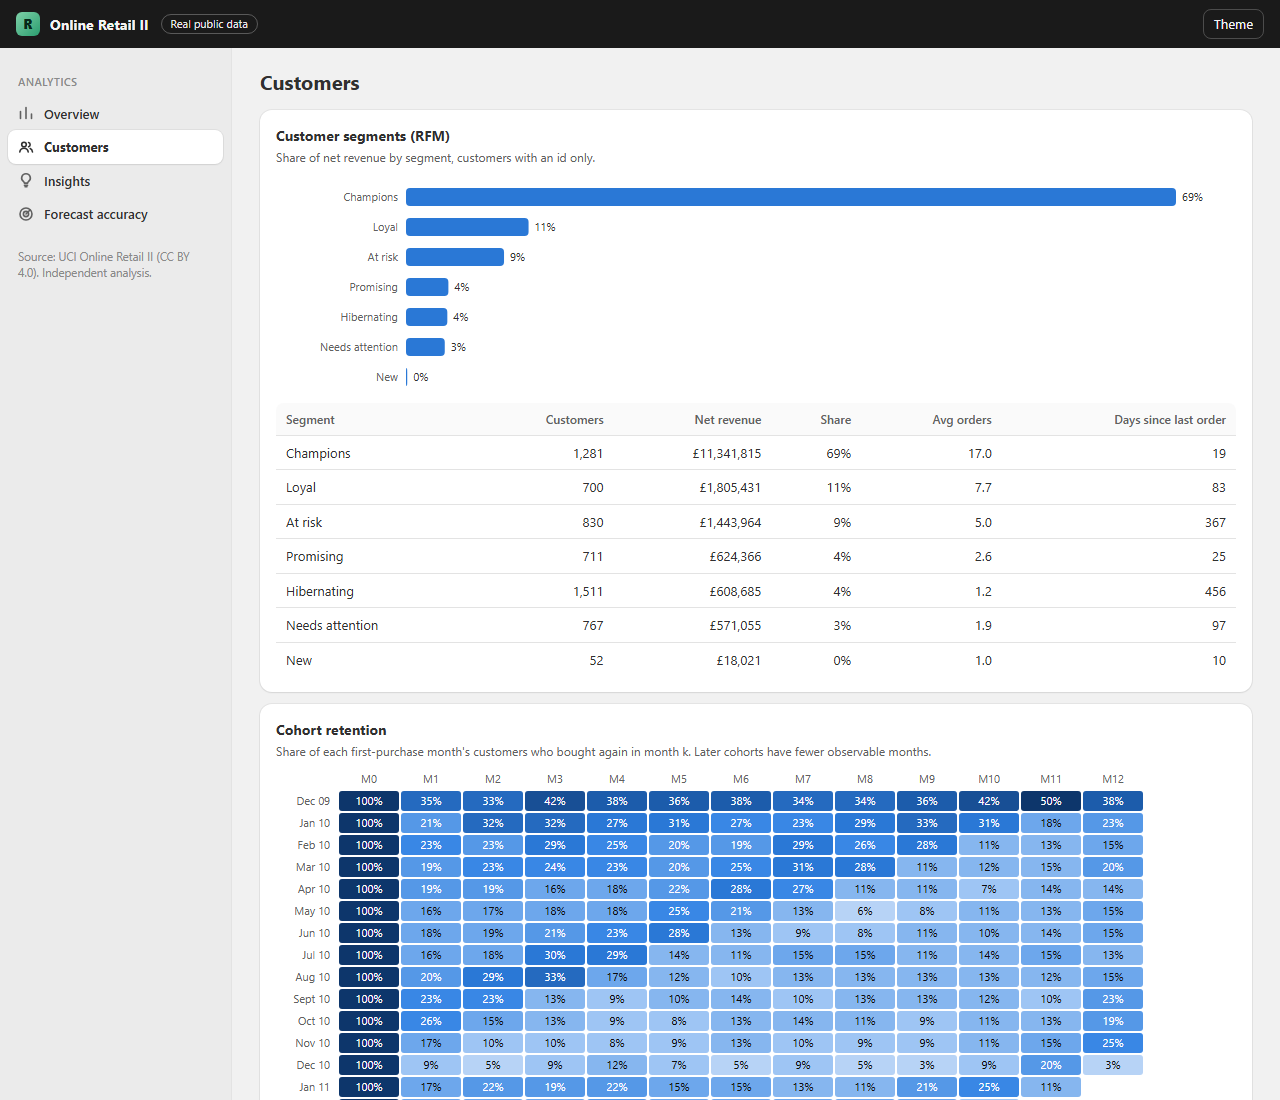
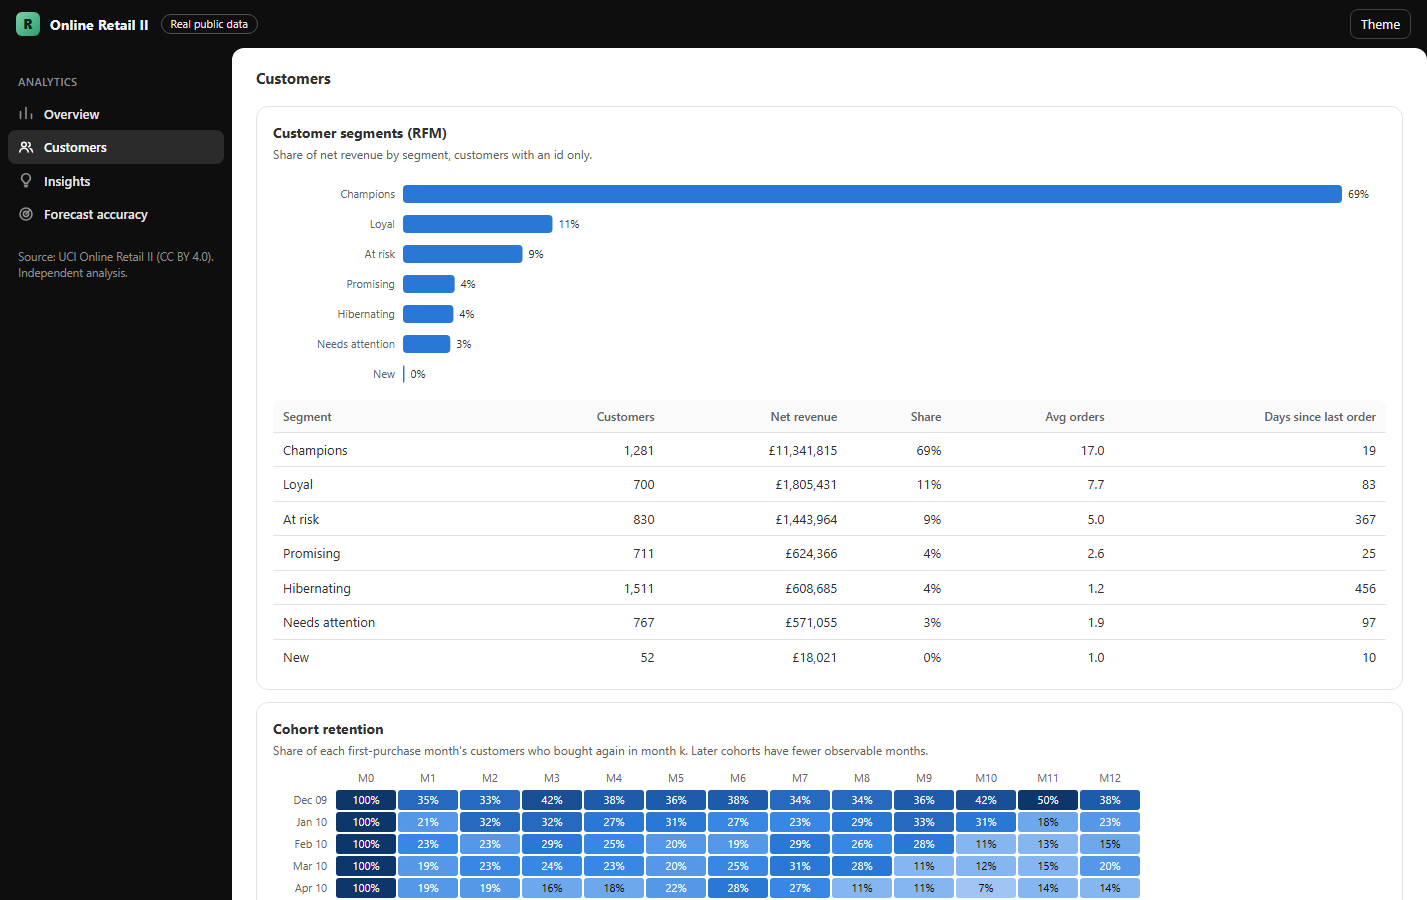
Report: match the admin frame look; refresh screenshots

diff --git a/report/index.html b/report/index.html
@@ -173,14 +173,47 @@ details{margin-top:8px}summary{cursor:pointer;font-size:12px;color:var(--ink2)}
 .insight .m{color:var(--ink2);font-size:12.5px}.insight .m b{color:var(--ink)}
 footer.foot-note{margin-top:22px;font-size:12px;color:var(--ink2)}
 
+/* ---- Admin frame (matches the real admin look): dark frame and sidebar, white rounded content panel, separate metric cards ---- */
+:root, :root[data-theme="light"]{--frame:#0e0e0e;--panel:#ffffff;--side-ink:#e6e6e6;--side-muted:#8f8f8f;--side-active:#2b2b2b;--side-hover:#1c1c1c;--chip:#f1f1f1;--card-line:#e3e3e3}
+@media (prefers-color-scheme: dark){:root:where(:not([data-theme="light"])){--frame:#000000;--panel:#151515;--chip:#262626;--card-line:#2e2e2e}}
+:root[data-theme="dark"]{--frame:#000000;--panel:#151515;--chip:#262626;--card-line:#2e2e2e}
+body{background:var(--frame)}
+.topbar{background:var(--frame)}
+.side{background:var(--frame);border-right:none;color:var(--side-ink)}
+.side h6{color:var(--side-muted)}
+.nav{color:var(--side-ink);border-radius:8px}
+.nav svg{color:var(--side-muted)}
+.nav:hover{background:var(--side-hover)}
+.nav[aria-current="page"]{background:var(--side-active);box-shadow:none;color:#fff;font-weight:600}
+.nav[aria-current="page"] svg{color:#fff}
+.side .foot{color:var(--side-muted)}
+.main{background:var(--panel);border-radius:12px;margin:0 6px 6px 0;max-width:none;min-width:0;padding:16px 24px 48px}
+.main > *{max-width:1160px;margin-left:auto;margin-right:auto}
+.page-head h1{font-size:15px;font-weight:650}
+.btn{background:var(--chip);border:1px solid transparent;box-shadow:none;font-weight:550}
+.btn:hover{background:var(--press)}
+.btn.primary{background:var(--primary);color:var(--primary-ink)}
+.card{box-shadow:none;border:1px solid var(--card-line);background:var(--surface)}
+.pop{background:var(--surface)}
+/* metric strip: separate cards, small trend line bottom-right */
+.strip,.card.strip{background:transparent;border:none;box-shadow:none;padding:0;gap:12px;overflow:visible}
+.kpi,.kpi:first-child{border:1px solid var(--card-line);border-radius:12px;background:var(--surface);padding:12px 14px 12px;min-height:92px}
+button.kpi:hover{background:var(--hover)}
+button.kpi[aria-pressed="true"]{box-shadow:inset 0 0 0 1.5px var(--ink)}
+.kpi svg.spark{position:absolute!important;right:12px!important;top:32px!important;bottom:auto!important;width:58px!important;height:22px!important;margin:0!important}
+.kpi .v{font-size:20px;line-height:28px}
+.legend{margin:6px 0 0}
+/* the content-wide notice bar */
+.notice{display:flex;gap:10px;align-items:flex-start;background:var(--info-bg);color:var(--info-ink);border-radius:12px;padding:10px 14px;margin:0 0 12px;font-size:13px}
+
 /* small screens: navigation becomes a sticky 4-column strip (no horizontal scrolling), strip cells fill the row, controls are touch friendly */
 @media (max-width:860px){
   .shell{grid-template-columns:1fr}
-  .side{position:sticky;top:48px;z-index:20;height:auto;display:grid;grid-template-columns:repeat(auto-fit,minmax(0,1fr));gap:4px;overflow:visible;padding:6px;border-right:none;border-bottom:1px solid var(--line)}
+  .side{position:sticky;top:48px;z-index:20;height:auto;background:var(--frame);display:grid;grid-template-columns:repeat(auto-fit,minmax(0,1fr));gap:4px;overflow:visible;padding:6px;border-right:none;border-bottom:1px solid var(--line)}
   .side h6,.side .foot{display:none}
   .nav{flex-direction:column;justify-content:center;gap:3px;padding:6px 2px;font-size:11.5px;line-height:1.2;text-align:center;white-space:normal;min-height:48px}
   .nav svg{width:18px;height:18px}
-  .main{padding:14px 12px 40px}
+  .main{padding:14px 12px 40px;margin:0;border-radius:12px 12px 0 0}
   .page-head h1{width:100%}
   .page-head{gap:8px}
   .btn{min-height:38px}
@@ -188,9 +221,6 @@ footer.foot-note{margin-top:22px;font-size:12px;color:var(--ink2)}
   .pop select{font-size:16px;min-height:38px}
   .pop .item{min-height:40px}
   .strip{grid-template-columns:repeat(2,minmax(0,1fr))}
-  .kpi:nth-child(odd){border-left:none}
-  .kpi{border-top:1px solid var(--line)}
-  .kpi:nth-child(-n+2){border-top:none}
   .kpi:last-child:nth-child(odd){grid-column:span 2}
   .card{padding:14px 12px}
   .grid{gap:10px}

diff --git a/report/theme.css b/report/theme.css
@@ -165,14 +165,47 @@ details{margin-top:8px}summary{cursor:pointer;font-size:12px;color:var(--ink2)}
 .insight .m{color:var(--ink2);font-size:12.5px}.insight .m b{color:var(--ink)}
 footer.foot-note{margin-top:22px;font-size:12px;color:var(--ink2)}
 
+/* ---- Admin frame (matches the real admin look): dark frame and sidebar, white rounded content panel, separate metric cards ---- */
+:root, :root[data-theme="light"]{--frame:#0e0e0e;--panel:#ffffff;--side-ink:#e6e6e6;--side-muted:#8f8f8f;--side-active:#2b2b2b;--side-hover:#1c1c1c;--chip:#f1f1f1;--card-line:#e3e3e3}
+@media (prefers-color-scheme: dark){:root:where(:not([data-theme="light"])){--frame:#000000;--panel:#151515;--chip:#262626;--card-line:#2e2e2e}}
+:root[data-theme="dark"]{--frame:#000000;--panel:#151515;--chip:#262626;--card-line:#2e2e2e}
+body{background:var(--frame)}
+.topbar{background:var(--frame)}
+.side{background:var(--frame);border-right:none;color:var(--side-ink)}
+.side h6{color:var(--side-muted)}
+.nav{color:var(--side-ink);border-radius:8px}
+.nav svg{color:var(--side-muted)}
+.nav:hover{background:var(--side-hover)}
+.nav[aria-current="page"]{background:var(--side-active);box-shadow:none;color:#fff;font-weight:600}
+.nav[aria-current="page"] svg{color:#fff}
+.side .foot{color:var(--side-muted)}
+.main{background:var(--panel);border-radius:12px;margin:0 6px 6px 0;max-width:none;min-width:0;padding:16px 24px 48px}
+.main > *{max-width:1160px;margin-left:auto;margin-right:auto}
+.page-head h1{font-size:15px;font-weight:650}
+.btn{background:var(--chip);border:1px solid transparent;box-shadow:none;font-weight:550}
+.btn:hover{background:var(--press)}
+.btn.primary{background:var(--primary);color:var(--primary-ink)}
+.card{box-shadow:none;border:1px solid var(--card-line);background:var(--surface)}
+.pop{background:var(--surface)}
+/* metric strip: separate cards, small trend line bottom-right */
+.strip,.card.strip{background:transparent;border:none;box-shadow:none;padding:0;gap:12px;overflow:visible}
+.kpi,.kpi:first-child{border:1px solid var(--card-line);border-radius:12px;background:var(--surface);padding:12px 14px 12px;min-height:92px}
+button.kpi:hover{background:var(--hover)}
+button.kpi[aria-pressed="true"]{box-shadow:inset 0 0 0 1.5px var(--ink)}
+.kpi svg.spark{position:absolute!important;right:12px!important;top:32px!important;bottom:auto!important;width:58px!important;height:22px!important;margin:0!important}
+.kpi .v{font-size:20px;line-height:28px}
+.legend{margin:6px 0 0}
+/* the content-wide notice bar */
+.notice{display:flex;gap:10px;align-items:flex-start;background:var(--info-bg);color:var(--info-ink);border-radius:12px;padding:10px 14px;margin:0 0 12px;font-size:13px}
+
 /* small screens: navigation becomes a sticky 4-column strip (no horizontal scrolling), strip cells fill the row, controls are touch friendly */
 @media (max-width:860px){
   .shell{grid-template-columns:1fr}
-  .side{position:sticky;top:48px;z-index:20;height:auto;display:grid;grid-template-columns:repeat(auto-fit,minmax(0,1fr));gap:4px;overflow:visible;padding:6px;border-right:none;border-bottom:1px solid var(--line)}
+  .side{position:sticky;top:48px;z-index:20;height:auto;background:var(--frame);display:grid;grid-template-columns:repeat(auto-fit,minmax(0,1fr));gap:4px;overflow:visible;padding:6px;border-right:none;border-bottom:1px solid var(--line)}
   .side h6,.side .foot{display:none}
   .nav{flex-direction:column;justify-content:center;gap:3px;padding:6px 2px;font-size:11.5px;line-height:1.2;text-align:center;white-space:normal;min-height:48px}
   .nav svg{width:18px;height:18px}
-  .main{padding:14px 12px 40px}
+  .main{padding:14px 12px 40px;margin:0;border-radius:12px 12px 0 0}
   .page-head h1{width:100%}
   .page-head{gap:8px}
   .btn{min-height:38px}
@@ -180,9 +213,6 @@ footer.foot-note{margin-top:22px;font-size:12px;color:var(--ink2)}
   .pop select{font-size:16px;min-height:38px}
   .pop .item{min-height:40px}
   .strip{grid-template-columns:repeat(2,minmax(0,1fr))}
-  .kpi:nth-child(odd){border-left:none}
-  .kpi{border-top:1px solid var(--line)}
-  .kpi:nth-child(-n+2){border-top:none}
   .kpi:last-child:nth-child(odd){grid-column:span 2}
   .card{padding:14px 12px}
   .grid{gap:10px}
